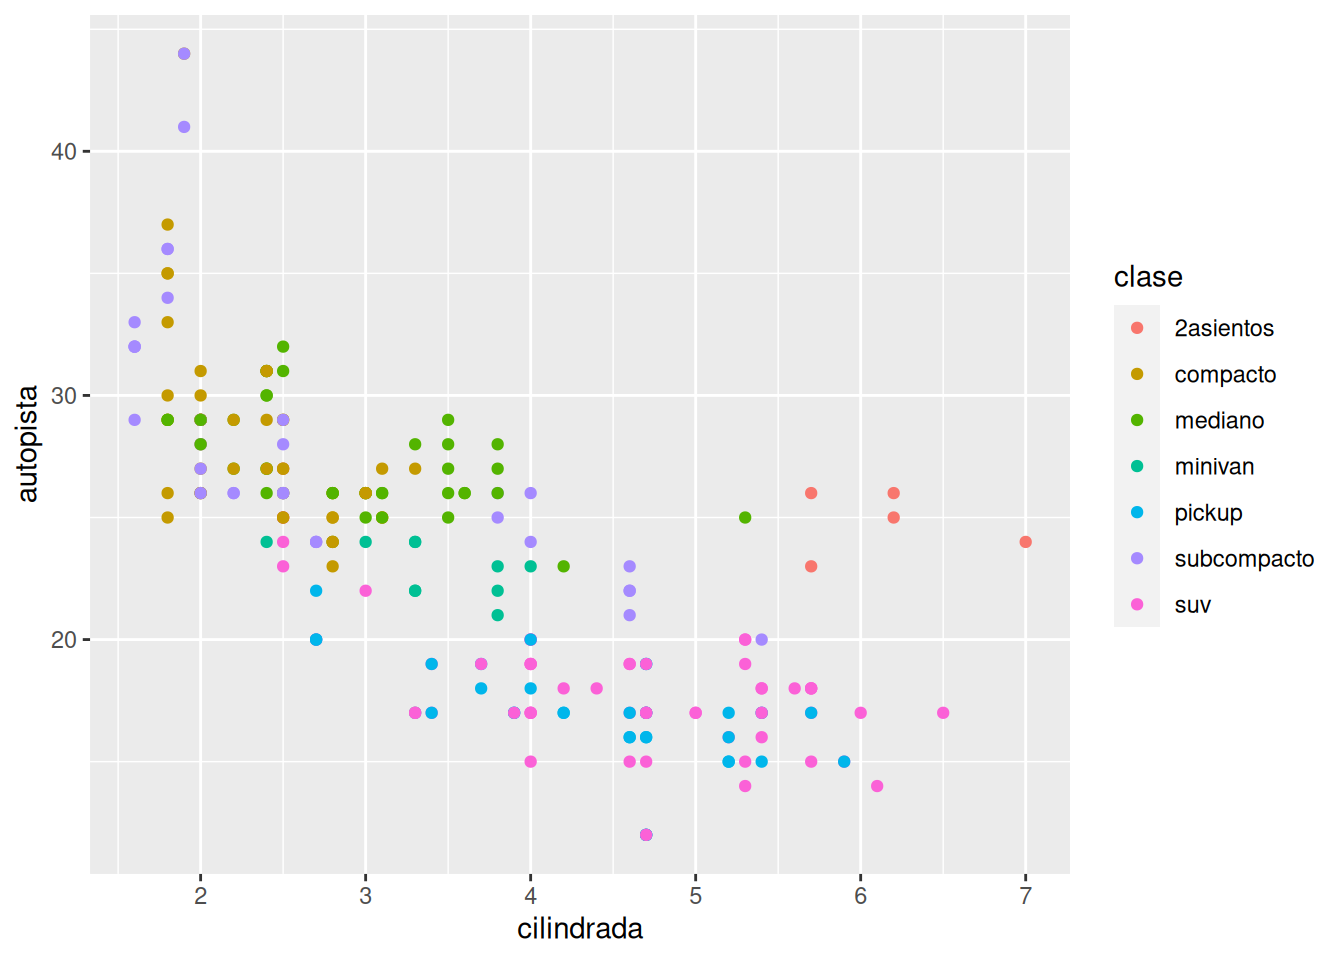
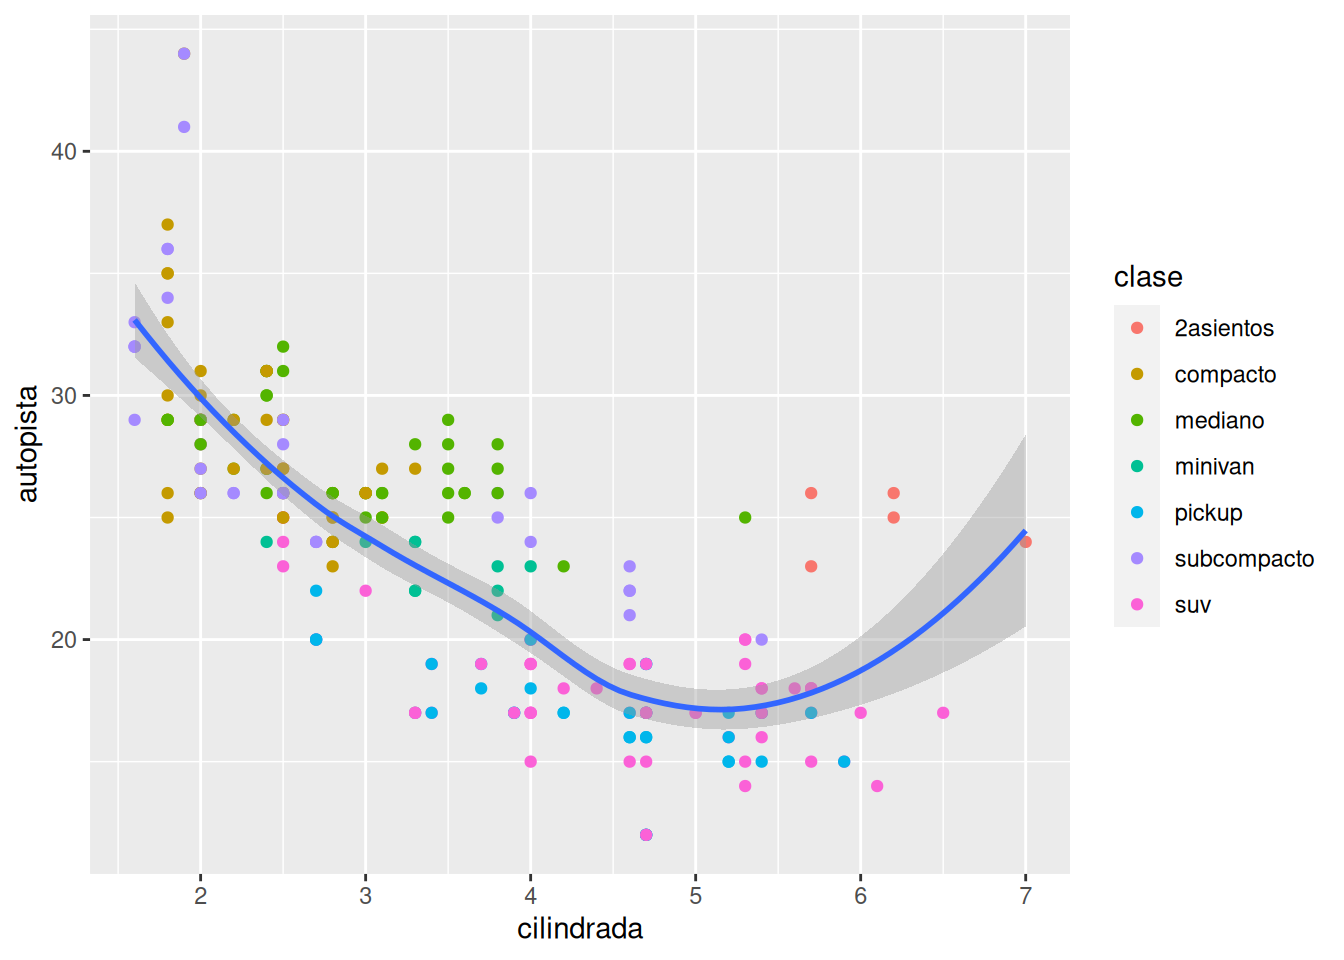
Corrección del gráfico

Changed region(s): [[0.0938, 0.3125, 0.7812, 0.7812]]

diff --git a/docs/view.html b/docs/view.html
@@ -397,7 +397,11 @@ specifying shapes manually if you must have them.</code></pre>
 <p>Ahora abordemos el uso de los mapeos locales. Estos permiten ampliar o sobrescribir los mapeos globales solo en la capa donde se escriben. Así es posible mostrar diferentes estéticas en cada geom.</p>
 <div class="cell">
 <div class="sourceCode cell-code" id="cb27"><pre class="sourceCode r code-with-copy"><code class="sourceCode r"><span id="cb27-1"><a href="#cb27-1" aria-hidden="true" tabindex="-1"></a><span class="fu">ggplot</span>(<span class="at">data =</span> millas, <span class="at">mapping =</span> <span class="fu">aes</span>(<span class="at">x =</span> cilindrada, <span class="at">y =</span> autopista)) <span class="sc">+</span></span>
-<span id="cb27-2"><a href="#cb27-2" aria-hidden="true" tabindex="-1"></a>  <span class="fu">geom_point</span>(<span class="at">mapping =</span> <span class="fu">aes</span>(<span class="at">color =</span> clase))</span></code><button title="Copy to Clipboard" class="code-copy-button"><i class="bi"></i></button></pre></div>
+<span id="cb27-2"><a href="#cb27-2" aria-hidden="true" tabindex="-1"></a>  <span class="fu">geom_point</span>(<span class="at">mapping =</span> <span class="fu">aes</span>(<span class="at">color =</span> clase)) <span class="sc">+</span></span>
+<span id="cb27-3"><a href="#cb27-3" aria-hidden="true" tabindex="-1"></a>  <span class="fu">geom_smooth</span>()</span></code><button title="Copy to Clipboard" class="code-copy-button"><i class="bi"></i></button></pre></div>
+<div class="cell-output cell-output-stderr">
+<pre><code>`geom_smooth()` using method = 'loess' and formula = 'y ~ x'</code></pre>
+</div>
 <div class="cell-output-display">
 <p><img src="view_files/figure-html/unnamed-chunk-16-1.png" class="img-fluid" width="672"></p>
 </div>
